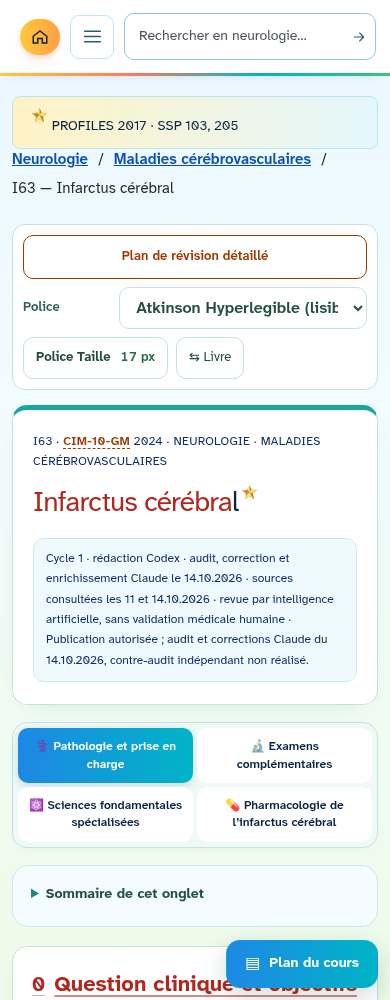
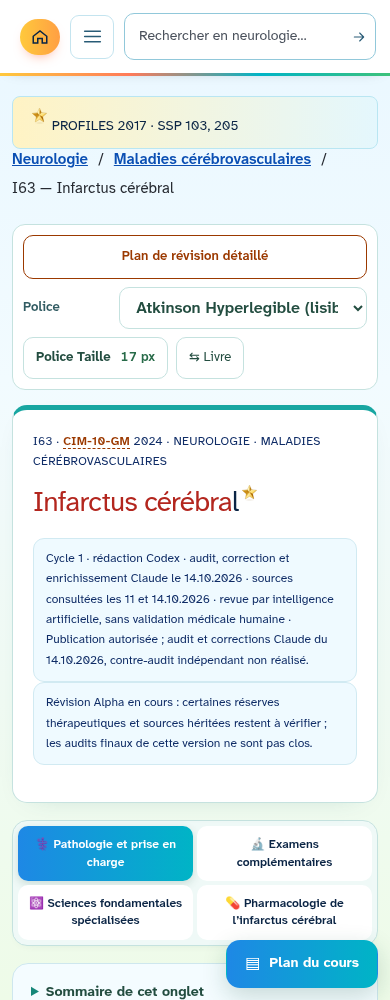
docs(I63): actualiser les preuves sur l’avis Alpha visible

diff --git a/docs/collaboration/ssp-v2/execution/ALPHA77-CODEX-I63-INTEGRATE/source-snapshot/chapters/I63/I63_a.html b/docs/collaboration/ssp-v2/execution/ALPHA77-CODEX-I63-INTEGRATE/source-snapshot/chapters/I63/I63_a.html
@@ -1,4 +1,4 @@
-<template id="ch-I63"><div class="chap"><div class="chap-head"><div class="code">I63 · CIM-10-GM 2024 · Neurologie · Maladies cérébrovasculaires</div><h1>Infarctus cérébral</h1><span class="status">Cycle 1 · rédaction Codex · audit, correction et enrichissement Claude le 14.10.2026 · sources consultées les 11 et 14.10.2026 · revue par intelligence artificielle, sans validation médicale humaine</span></div><div class="tabs ui" role="tablist"><button role="tab" aria-controls="pA" data-p="pA" aria-selected="true">⚕ Pathologie et prise en charge</button><button role="tab" aria-controls="pE" data-p="pE" aria-selected="false">🔬 Examens complémentaires</button><button role="tab" aria-controls="pS" data-p="pS" aria-selected="false">⚛ Sciences fondamentales spécialisées</button><button role="tab" aria-controls="pP" data-p="pP" aria-selected="false">💊 Pharmacologie de l’infarctus cérébral</button></div><div class="panel" id="pA"><nav class="toc ui"><b>Plan du cours</b><ol><li><a href="#i63-0">Question clinique et objectifs</a></li><li><a href="#i63-1">Définition et classifications</a></li><li><a href="#i63-2">Épidémiologie suisse et pronostic</a></li><li><a href="#i63-3">Physiopathologie</a></li><li><a href="#i63-4">Étiologies et facteurs de risque</a></li><li><a href="#i63-5">Anamnèse</a></li><li><a href="#i63-6">Examen clinique</a></li><li><a href="#i63-7">Diagnostic et diagnostics différentiels</a></li><li><a href="#i63-8">Urgences et complications</a></li><li><a href="#i63-9">Reperfusion et soins aigus</a></li><li><a href="#i63-10">Prévention secondaire et suivi</a></li><li><a href="#i63-11">Situations particulières et résolution du cas</a></li><li><a href="#i63-12">Critères formels et paramètres décisionnels</a></li></ol></nav><div class="chap-body"><section class="ilot" id="i63-0"><h2><span class="n">0</span>Question clinique et objectifs</h2><p>Un homme de 70 ans développe une faiblesse du bras droit et ne parvient plus à nommer les objets. Sa partenaire l’a vu parler normalement 90 minutes auparavant. Ce cas pédagogique fictif pose quatre questions : existe-t-il un accident vasculaire cérébral ? Une hémorragie ou une occlusion artérielle explique-t-elle les signes ? Une reperfusion reste-t-elle possible ? Quelle cause devra être traitée pour prévenir une récidive ?</p><p>Le médecin assistant doit donc reconnaître un déficit neurologique focal aigu, faire activer la filière d’urgence suisse et consigner la dernière heure à laquelle le patient était sans symptômes. Il lit ensuite l’imagerie cérébrale et vasculaire avec le spécialiste, puis distingue les décisions de reperfusion des décisions de prévention secondaire. L’examen et les prélèvements se déroulent en parallèle ; en effet, chaque minute perdue réduit le tissu encore sauvable, si bien qu’aucun geste accessoire ne doit retarder une reperfusion indiquée.</p><p>À l’Examen fédéral, l’infarctus cérébral se présente rarement sous son nom. Il surgit derrière une situation de départ : une paralysie, un trouble de la parole, une asymétrie faciale, un vertige brutal, une perte visuelle ou une confusion soudaine. Le cours suit ce raisonnement, de la plainte vers l’hypothèse vasculaire puis vers ses concurrents ; la fenêtre <button class="w" data-k="i63-ssp">situations de départ et raisonnement différentiel (de la plainte à l’examen décisif)</button> en donne la carte complète.</p><div class="key"><b>À retenir.</b> En Suisse, la suspicion d’accident vasculaire cérébral déclenche le numéro 144 et une orientation urgente vers une unité ou un centre spécialisé. La disparition des symptômes impose également une évaluation urgente, car elle ne protège pas d’une récidive précoce.</div><p class="src">Références : <a href="https://www.neurovasc.ch/fileadmin/files/publikationen/fr/Prehospital_Swiss_Guidelines_FR_Kaegi_SwissMedForum2021_suppl.pdf" target="_blank" rel="noopener" data-reference-source="1">Kägi et coll. — Recommandations suisses pour la prise en charge préhospitalière des AVC (2021), p. 1–3 : reconnaissance, derniers symptômes absents, urgence et triage</a> ; <a href="https://www.neurovasc.ch/fileadmin/files/publikationen/en/Thrombolysis_Thrombectomy_Swiss_guidelines_EN_Michel_ClinTranslNeurosci2021.pdf" target="_blank" rel="noopener" data-reference-source="1">Michel et coll. — Swiss guidelines for acute stroke revascularization (2021), p. 1–3 : traitement en Stroke Unit, bénéfice dépendant du délai</a>.</p></section>
+<template id="ch-I63"><div class="chap"><div class="chap-head"><div class="code">I63 · CIM-10-GM 2024 · Neurologie · Maladies cérébrovasculaires</div><h1>Infarctus cérébral</h1><span class="status">Cycle 1 · rédaction Codex · audit, correction et enrichissement Claude le 14.10.2026 · sources consultées les 11 et 14.10.2026 · revue par intelligence artificielle, sans validation médicale humaine</span><p class="status">Révision Alpha en cours : certaines réserves thérapeutiques et sources héritées restent à vérifier ; les audits finaux de cette version ne sont pas clos.</p></div><div class="tabs ui" role="tablist"><button role="tab" aria-controls="pA" data-p="pA" aria-selected="true">⚕ Pathologie et prise en charge</button><button role="tab" aria-controls="pE" data-p="pE" aria-selected="false">🔬 Examens complémentaires</button><button role="tab" aria-controls="pS" data-p="pS" aria-selected="false">⚛ Sciences fondamentales spécialisées</button><button role="tab" aria-controls="pP" data-p="pP" aria-selected="false">💊 Pharmacologie de l’infarctus cérébral</button></div><div class="panel" id="pA"><nav class="toc ui"><b>Plan du cours</b><ol><li><a href="#i63-0">Question clinique et objectifs</a></li><li><a href="#i63-1">Définition et classifications</a></li><li><a href="#i63-2">Épidémiologie suisse et pronostic</a></li><li><a href="#i63-3">Physiopathologie</a></li><li><a href="#i63-4">Étiologies et facteurs de risque</a></li><li><a href="#i63-5">Anamnèse</a></li><li><a href="#i63-6">Examen clinique</a></li><li><a href="#i63-7">Diagnostic et diagnostics différentiels</a></li><li><a href="#i63-8">Urgences et complications</a></li><li><a href="#i63-9">Reperfusion et soins aigus</a></li><li><a href="#i63-10">Prévention secondaire et suivi</a></li><li><a href="#i63-11">Situations particulières et résolution du cas</a></li><li><a href="#i63-12">Critères formels et paramètres décisionnels</a></li></ol></nav><div class="chap-body"><section class="ilot" id="i63-0"><h2><span class="n">0</span>Question clinique et objectifs</h2><p>Un homme de 70 ans développe une faiblesse du bras droit et ne parvient plus à nommer les objets. Sa partenaire l’a vu parler normalement 90 minutes auparavant. Ce cas pédagogique fictif pose quatre questions : existe-t-il un accident vasculaire cérébral ? Une hémorragie ou une occlusion artérielle explique-t-elle les signes ? Une reperfusion reste-t-elle possible ? Quelle cause devra être traitée pour prévenir une récidive ?</p><p>Le médecin assistant doit donc reconnaître un déficit neurologique focal aigu, faire activer la filière d’urgence suisse et consigner la dernière heure à laquelle le patient était sans symptômes. Il lit ensuite l’imagerie cérébrale et vasculaire avec le spécialiste, puis distingue les décisions de reperfusion des décisions de prévention secondaire. L’examen et les prélèvements se déroulent en parallèle ; en effet, chaque minute perdue réduit le tissu encore sauvable, si bien qu’aucun geste accessoire ne doit retarder une reperfusion indiquée.</p><p>À l’Examen fédéral, l’infarctus cérébral se présente rarement sous son nom. Il surgit derrière une situation de départ : une paralysie, un trouble de la parole, une asymétrie faciale, un vertige brutal, une perte visuelle ou une confusion soudaine. Le cours suit ce raisonnement, de la plainte vers l’hypothèse vasculaire puis vers ses concurrents ; la fenêtre <button class="w" data-k="i63-ssp">situations de départ et raisonnement différentiel (de la plainte à l’examen décisif)</button> en donne la carte complète.</p><div class="key"><b>À retenir.</b> En Suisse, la suspicion d’accident vasculaire cérébral déclenche le numéro 144 et une orientation urgente vers une unité ou un centre spécialisé. La disparition des symptômes impose également une évaluation urgente, car elle ne protège pas d’une récidive précoce.</div><p class="src">Références : <a href="https://www.neurovasc.ch/fileadmin/files/publikationen/fr/Prehospital_Swiss_Guidelines_FR_Kaegi_SwissMedForum2021_suppl.pdf" target="_blank" rel="noopener" data-reference-source="1">Kägi et coll. — Recommandations suisses pour la prise en charge préhospitalière des AVC (2021), p. 1–3 : reconnaissance, derniers symptômes absents, urgence et triage</a> ; <a href="https://www.neurovasc.ch/fileadmin/files/publikationen/en/Thrombolysis_Thrombectomy_Swiss_guidelines_EN_Michel_ClinTranslNeurosci2021.pdf" target="_blank" rel="noopener" data-reference-source="1">Michel et coll. — Swiss guidelines for acute stroke revascularization (2021), p. 1–3 : traitement en Stroke Unit, bénéfice dépendant du délai</a>.</p></section>
 <section class="ilot" id="i63-1"><h2><span class="n">1</span>Définition et classifications</h2><p>L’infarctus cérébral est une lésion ischémique du tissu cérébral, généralement liée à une interruption du flux dans une artère. L’accident vasculaire cérébral ischémique est sa présentation clinique aiguë. Le diagnostic associe un syndrome compatible à l’imagerie et à l’évolution ; un scanner initial sans hémorragie et sans lésion visible ne suffit pas à exclure l’ischémie.</p><p>L’<button class="w" data-k="i63-ait">accident ischémique transitoire (définition tissulaire et urgence)</button> désigne, dans le référentiel bernois 2026, un déficit focal transitoire sans lésion ischémique en diffusion. L’ancienne limite de 24 heures décrit une définition temporelle historique. Une lésion en diffusion compatible avec les symptômes classe l’événement comme infarctus, même si le déficit s’est résolu rapidement.</p><p>Le tableau distingue le territoire artériel, la localisation de la lésion et sa cause. Ces classifications se complètent ; aucune ne résume seule le handicap.</p><table class="t"><thead><tr><th>Classification</th><th>Ce qu’elle décrit</th><th>Conséquence</th></tr></thead><tbody><tr><td>Territoire antérieur ou postérieur</td><td>La circulation carotidienne ou vertébrobasilaire concernée.</td><td>Les symptômes orientent l’examen ; l’angiographie vérifie l’artère.</td></tr><tr><td>Infarctus cortical, profond ou du tronc cérébral/cérébelleux</td><td>La localisation de la lésion.</td><td>Une aphasie, une négligence ou une anomalie du champ visuel fait rechercher une atteinte des réseaux correspondants.</td></tr><tr><td><button class="w" data-k="i63-etiologie">Cause artérielle, cardiaque, petite artère ou autre (bilan et classification)</button></td><td>Le mécanisme et l’origine présumée.</td><td>Le traitement préventif dépend de cette attribution.</td></tr></tbody></table><p>Un infarctus peut aussi résulter d’une <button class="w" data-k="i63-veineux">thrombose veineuse cérébrale non pyogène (imagerie et stratégie distinctes)</button>. Le drainage veineux, le bilan et le traitement suivent alors un parcours spécialisé différent de la reperfusion artérielle décrite dans cette leçon. Cette variante n’est pas classée sur la seule distribution d’un territoire artériel.</p><div class="trap"><span class="k">Erreur fréquente</span> Une amélioration rapide ou un faible score neurologique ne suffit pas à qualifier l’événement de bénin. Une aphasie persistante peut être invalidante malgré un NIHSS peu élevé.</div><div class="key"><b>À retenir.</b> La définition tissulaire, la localisation anatomique, la gravité et la cause répondent à des questions différentes.</div><p class="src">Références : <a href="https://neurologie.insel.ch/fileadmin/Neurologie/Dokumente/ANZ/Bern_Stroke_Guidelines_Englisch.pdf" target="_blank" rel="noopener" data-reference-source="1">Jung, Meinel et coll. — Stroke Guidelines of the Bern Stroke Network (08/2026, remplace 01/2024), p. 10, 19–21, 32 et 53–57 : gravité invalidante, définition AIT, thrombose veineuse et territoires</a> ; <a href="https://pmc.ncbi.nlm.nih.gov/articles/PMC7995316/" target="_blank" rel="noopener" data-reference-source="1">European Stroke Organisation — Guidelines on intravenous thrombolysis (2021), PICO 9.1 : AVC mineur invalidant</a> ; <a href="https://doi.org/10.1186/s42466-024-00320-9" target="_blank" rel="noopener" data-reference-source="1">Weimar et coll. — New recommendations on cerebral venous and dural sinus thrombosis from the German consensus-based S2k guideline (2024 ; consensus révisé en octobre 2023), Definition, Diagnosis et Therapy : thrombose veineuse cérébrale</a>.</p></section>
 <section class="ilot" id="i63-2"><h2><span class="n">2</span>Épidémiologie suisse et pronostic</h2><p>L’étude nationale publiée en 2025 par Hänsel et collaborateurs analyse les statistiques suisses de 2017. Elle rapporte 26 032 sorties hospitalières associées à un accident vasculaire cérébral et une létalité globale estimée de 10,5 %. Ces valeurs concernent tous les accidents vasculaires cérébraux, ischémiques et hémorragiques ; plusieurs sorties peuvent correspondre à la même personne. Elles ne mesurent donc ni les seuls infarctus cérébraux ni leur incidence en 2026.</p><p>Entre 2004 et 2017, les événements et sorties enregistrés ont augmenté, tandis que la létalité globale a diminué, de 22,7 % à 10,5 %. L’étude est observationnelle : l’amélioration des soins, la reconnaissance des symptômes et les changements de codage peuvent contribuer à cette évolution. Elle ne démontre pas à elle seule l’effet causal d’un médicament.</p><p>Une seconde donnée suisse oriente l’organisation des soins. Selon les recommandations préhospitalières nationales de 2021, 70 à 80 % des infarctus cérébraux aigus ne comportent pas d’occlusion d’un gros vaisseau ; ces patients relèvent surtout de la thrombolyse dans l’unité la plus proche. À l’inverse, les 20 à 30 % restants, porteurs d’une occlusion proximale, bénéficient d’une thrombectomie qui n’est disponible que dans un centre. C’est pourquoi le triage préhospitalier cherche à repérer cette minorité sans retarder la majorité.</p><p>Le pronostic individuel se juge sur l’autonomie antérieure, la gravité initiale, la localisation et l’étendue de l’ischémie, les possibilités de reperfusion et les complications. Le NIHSS décrit le déficit observé ; l’<button class="w" data-k="i63-rankin">échelle de Rankin modifiée (autonomie et résultats fonctionnels)</button> décrit le handicap. La fatigue, les troubles cognitifs, l’humeur et la participation sociale complètent l’évaluation après la sortie.</p><div class="trap"><span class="k">Erreur fréquente</span> Un pourcentage de mortalité portant sur tous les accidents vasculaires cérébraux ne doit pas être présenté comme le risque d’un patient ayant un petit infarctus reperfusé.</div><div class="key"><b>À retenir.</b> Le nombre de sorties, le nombre d’événements et le nombre de premières occurrences ne sont pas interchangeables.</div><p class="src">Références : <a href="https://doi.org/10.1093/ije/dyaf087" target="_blank" rel="noopener" data-reference-source="1">Hänsel et coll. — Current trends in stroke events, mortality, and case fatality in Switzerland (2025 ; données 2017 comparées à 2004), Résumé, Methods/Data sources, Results et Discussion : données 2017, sorties répétées, limites</a> ; <a href="https://www.neurovasc.ch/fileadmin/files/publikationen/fr/Prehospital_Swiss_Guidelines_FR_Kaegi_SwissMedForum2021_suppl.pdf" target="_blank" rel="noopener" data-reference-source="1">Kägi et coll. — Phase préhospitalière en cas d’accident vasculaire cérébral aigu, Forum Médical Suisse 2021, p. 322 : 70–80 % sans occlusion de gros vaisseau, 20–30 % avec occlusion</a> ; <a href="https://neurologie.insel.ch/fileadmin/Neurologie/Dokumente/ANZ/Bern_Stroke_Guidelines_Englisch.pdf" target="_blank" rel="noopener" data-reference-source="1">Jung, Meinel et coll. — Stroke Guidelines of the Bern Stroke Network (08/2026, remplace 01/2024), p. 51 et 61 : vie après AVC et Rankin modifié</a>.</p></section>
 <section class="ilot" id="i63-3"><h2><span class="n">3</span>Physiopathologie</h2><p>Dans le tissu normalement perfusé, l’apport d’oxygène et de glucose permet de maintenir l’<button class="w" data-k="i63-energie">adénosine triphosphate</button> nécessaire aux pompes membranaires. Or, lorsque l’apport devient insuffisant, la <button class="w" data-k="i63-energie">pompe sodium–potassium dépendante d’adénosine triphosphate (gradients et dépolarisation)</button> ne compense plus les mouvements d’ions : sodium et calcium s’accumulent dans les cellules, tandis que le potassium quitte les cellules. Une dépolarisation importante et un œdème cytotoxique peuvent alors apparaître. Les perturbations électriques et ioniques précèdent ou accompagnent la lésion irréversible ; elles ne fournissent pas un délai universel de mort tissulaire.</p><p>Le <button class="w" data-k="i63-penombre">noyau et la pénombre ischémique (imagerie, viabilité et limites)</button> distinguent un tissu très lésé d’un tissu hypoperfusé encore susceptible de bénéficier d’une reperfusion. L’estimation dépend de la méthode d’imagerie. Les collatérales, la perfusion résiduelle et les conditions locales expliquent que deux patients examinés au même délai puissent avoir des volumes lésionnels différents.</p><figure><svg xmlns="http://www.w3.org/2000/svg" role="img" aria-label="Figure 1 — Enchaînement cellulaire schématique. La succession n’est pas une horloge thérapeutique ; la réversibilité dépend du contexte et de la restauration du flux." font-family="sans-serif" font-size="18" text-anchor="middle" width="380" height="343" viewBox="0 0 380 343"><rect x="10" y="10" width="360" height="70" rx="9" fill="#f3f6f8" stroke="#64748b"></rect><text x="190" y="35" fill="#17324d">Perfusion normale → maintien de</text><text x="190" y="58" fill="#17324d">l’adénosine triphosphate</text><path d="M190 82v15m-5-5 5 5 5-5" fill="none" stroke="#64748b" stroke-width="2"></path><rect x="10" y="102" width="360" height="47" rx="9" fill="#f3f6f8" stroke="#64748b"></rect><text x="190" y="127" fill="#17324d">Ischémie → déficit énergétique</text><path d="M190 151v15m-5-5 5 5 5-5" fill="none" stroke="#64748b" stroke-width="2"></path><rect x="10" y="171" width="360" height="70" rx="9" fill="#f3f6f8" stroke="#64748b"></rect><text x="190" y="196" fill="#17324d">Pompes ioniques insuffisantes →</text><text x="190" y="219" fill="#17324d">dépolarisation</text><path d="M190 243v15m-5-5 5 5 5-5" fill="none" stroke="#64748b" stroke-width="2"></path><rect x="10" y="263" width="360" height="70" rx="9" fill="#f3f6f8" stroke="#64748b"></rect><text x="190" y="288" fill="#17324d">Persistance → atteinte cellulaire</text><text x="190" y="311" fill="#17324d">et œdème</text></svg><figcaption>Figure 1 — Schéma didactique de l’enchaînement cellulaire. La succession n’est pas une horloge thérapeutique ; la réversibilité dépend du contexte et de la restauration du flux.</figcaption></figure><p>Par ailleurs, l’autorégulation cérébrale devient moins efficace dans le tissu ischémique : la perfusion du tissu menacé tend alors à dépendre de la pression artérielle. Une baisse brusque de pression peut diminuer la perfusion encore utile, tandis qu’une pression excessive après reperfusion peut favoriser les complications hémorragiques. Cela explique les <button class="w" data-k="i63-pression">cibles de pression artérielle (phase aiguë, reperfusion et prévention)</button> distinctes selon la situation.</p><div class="key"><b>À retenir.</b> Science → examen → traitement : l’imagerie estime la lésion, la perfusion et l’occlusion ; ces informations permettent de sélectionner une reperfusion, sans déduire la viabilité du seul temps écoulé.</div><p class="src">Références : <a href="https://doi.org/10.1002/ana.25147" target="_blank" rel="noopener" data-reference-source="1">Dreier et coll. — Terminal spreading depolarization and electrical silence in death of human cerebral cortex (2018 ; DOI 10.1002/ana.25147), Introduction, discussion « Terminal SD » et limitations : ions, ATP, œdème et réversibilité ; observations terminales distinctes de l’AVC focal</a> ; <a href="https://pmc.ncbi.nlm.nih.gov/articles/PMC7995316/" target="_blank" rel="noopener" data-reference-source="1">European Stroke Organisation — Guidelines on intravenous thrombolysis (2021), PICO 3.1 et 4.1 : sélection par mismatch</a> ; <a href="https://www.neurovasc.ch/fileadmin/files/publikationen/en/Thrombolysis_Thrombectomy_Swiss_guidelines_EN_Michel_ClinTranslNeurosci2021.pdf" target="_blank" rel="noopener" data-reference-source="1">Michel et coll. — Swiss guidelines for acute stroke revascularization (2021), p. 2–3 et critères d’imagerie pour sélection tardive</a> ; <a href="https://doi.org/10.1093/esj/aakag004" target="_blank" rel="noopener" data-reference-source="1">European Stroke Organisation — 2025 update on blood pressure management in acute stroke (Publication mai 2026 ; DOI 10.1093/esj/aakag004), Physiopathologie et tableau 11, PICO 2–4</a>.</p></section>
